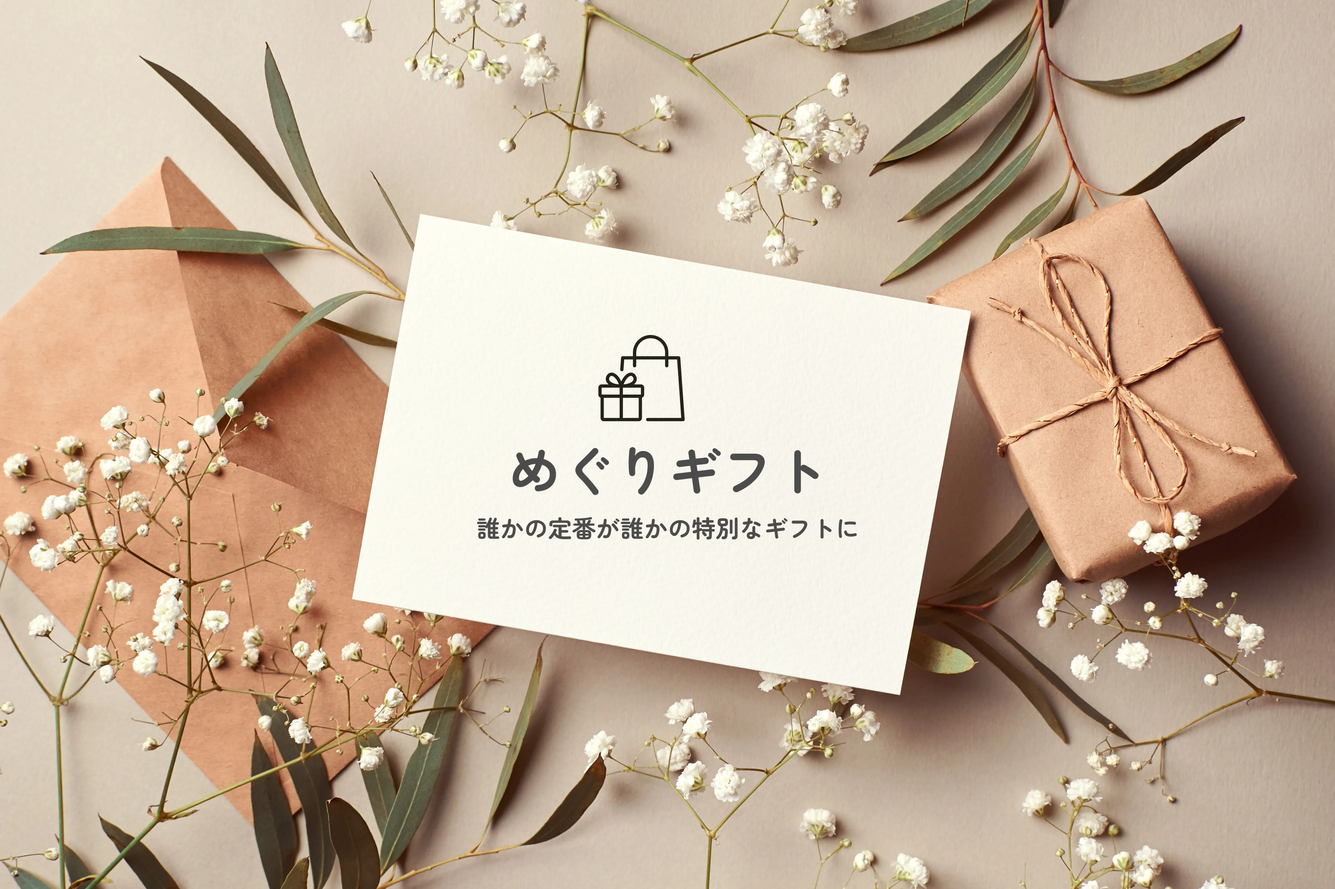
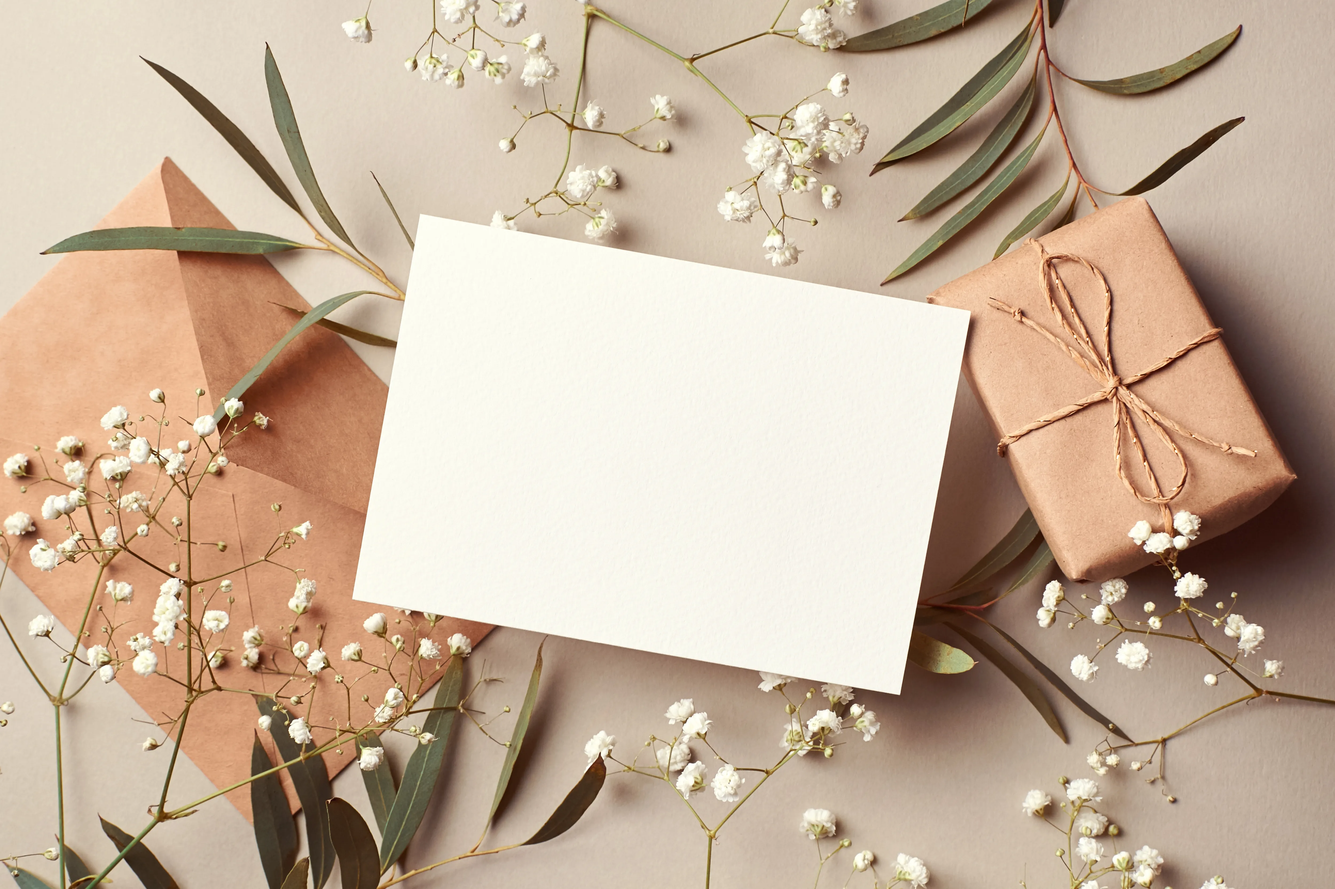
fix:画像生成部分を修正

Changed region(s): [[0.3432, 0.3744, 0.624, 0.6241]]

diff --git a/app/controllers/concerns/ogp_creator.rb b/app/controllers/concerns/ogp_creator.rb
@@ -133,29 +133,66 @@
 # end
 class OgpCreator
   require "mini_magick"
+
   BASE_IMAGE_PATH = Rails.root.join("app", "assets", "images", "ogp.webp").to_s
   GRAVITY = "center"
-  TEXT_POSITION = "0,0"
   FONT = Rails.root.join("app", "assets", "fonts", "UtsukushiFONT.otf").to_s
-  FONT_SIZE = 65
-  INDENTION_COUNT = 16
-  ROW_LIMIT = 8
+  TITLE_FONT_SIZE = 160
+  SUBTITLE_FONT_SIZE =  210
+  SUBTITLE_CHARS_PER_LINE = 7
+  SUBTITLE_ROW_LIMIT = 4
+  PRIMARY_FILL_COLOR = "#F6B352"
+  SECONDARY_FILL_COLOR = "#ffbdd3"
+  STROKE_COLOR = "#ffffff"
+  PRIMARY_DRAW_OFFSET = "0,-500"
+  SECONDARY_DRAW_OFFSET = "0,40"
 
   def self.build(text)
-    text = prepare_text(text)
+    prepared_text = prepare_text(text)
     image = MiniMagick::Image.open(BASE_IMAGE_PATH)
-    image.combine_options do |config|
-      config.font FONT
-      config.fill "red"
-      config.gravity GRAVITY
-      config.pointsize FONT_SIZE
-      config.draw "text #{TEXT_POSITION} '#{text}'"
-    end
+    draw_primary_title(image)
+    draw_secondary_title(image, prepared_text)
+    image.format "webp"
     image
   end
 
   private
+
+  def self.draw_primary_title(image)
+    image.combine_options do |config|
+      config.font FONT
+      config.fill PRIMARY_FILL_COLOR
+      config.stroke STROKE_COLOR
+      config.strokewidth 4
+      config.gravity GRAVITY
+      config.pointsize TITLE_FONT_SIZE
+      config.kerning 6
+      config.interline_spacing -8
+      config.draw "text #{PRIMARY_DRAW_OFFSET} 'おすすめギフト'"
+    end
+  end
+
+  def self.draw_secondary_title(image, text)
+    image.combine_options do |config|
+      config.font FONT
+      config.fill SECONDARY_FILL_COLOR
+      config.stroke "none"
+      config.gravity GRAVITY
+      config.pointsize SUBTITLE_FONT_SIZE
+      config.kerning 4
+      config.interline_spacing -6
+      config.draw "text #{SECONDARY_DRAW_OFFSET} '#{text}'"
+    end
+  end
+
   def self.prepare_text(text)
-    text.to_s.scan(/.{1,#{INDENTION_COUNT}}/)[0...ROW_LIMIT].join("\n")
+    sanitized = text.to_s.strip
+    sanitized = "ギフト記録" if sanitized.blank?
+
+    sanitized.each_char
+             .each_slice(SUBTITLE_CHARS_PER_LINE)
+             .map { |chars| chars.join }
+             .first(SUBTITLE_ROW_LIMIT)
+             .join("\n")
   end
 end

diff --git a/app/controllers/gift_records_controller.rb b/app/controllers/gift_records_controller.rb
@@ -645,35 +645,12 @@ def gift_record_image_url(gift_record)
   Rails.logger.info "=== gift_record_image_url Debug ==="
   Rails.logger.info "gift_record: #{gift_record.inspect}"
 
-  # nilチェック
-  if gift_record.nil?
-    Rails.logger.info "gift_record is nil, using default image"
-    return view_context.image_url("default_gift.webp")
-  end
+  return view_context.image_url("default_gift.webp") if gift_record.nil?
 
-  # 画像が添付されているかチェック
-  if gift_record.images.attached? && gift_record.images.any?
-    Rails.logger.info "Images attached: #{gift_record.images.count} images"
-
-    begin
-      first_image = gift_record.images.first
-      Rails.logger.info "First image blob: #{first_image.blob.filename}"
-
-      # url_forを使用（最も安全）
-      url = url_for(first_image)
-      Rails.logger.info "Generated URL: #{url}"
-
-      return url
-    rescue => e
-      Rails.logger.error "Error generating image URL: #{e.class} - #{e.message}"
-      Rails.logger.error e.backtrace.first(3).join("\n")
-    end
-  else
-    Rails.logger.info "No images attached or images array is empty"
-  end
-
-  # フォールバック
-  Rails.logger.info "Using default image"
+  gift_record.ogp_image_url(request)
+rescue => e
+  Rails.logger.error "Error generating gift record image URL: #{e.class} - #{e.message}"
+  Rails.logger.error e.backtrace.first(3).join("\n")
   view_context.image_url("default_gift.webp")
 end
 
@@ -682,7 +659,7 @@ def generate_ogp_image_url(gift_record)
   return default_ogp_image_url unless gift_record&.item_name.present?
 
   begin
-    "#{request.base_url}/images/ogp.png?text=#{CGI.escape(gift_record.item_name)}"
+    "#{request.base_url}/images/ogp.webp?text=#{CGI.escape(gift_record.item_name)}"
   rescue => e
     Rails.logger.error "OGP URL生成エラー: #{e.message}"
     default_ogp_image_url
@@ -715,7 +692,7 @@ end
   end
 
   def default_ogp_image_url
-    url = "#{request.base_url}#{image_path('ogp.png')}"
+    url = "#{request.base_url}#{image_path('ogp.webp')}"
     Rails.env.production? ? url.sub(%r{^http://}, "https://") : url
   end
 

diff --git a/app/models/gift_record.rb b/app/models/gift_record.rb
@@ -1,4 +1,5 @@
 class GiftRecord < ApplicationRecord
+  require "tempfile"
   # リレーション
   belongs_to :user
   belongs_to :event
@@ -58,8 +59,8 @@ class GiftRecord < ApplicationRecord
     # 実体のある画像のみを判定対象にする（削除直後の残骸などを除外）
     when valid_image_attachments.any?
       :use_first_image_resized
-    # when item_name.present?
-    #   :generate_dynamic_text_image
+    when item_name.present?
+      :generate_dynamic_text_image
     else
       :use_default_image
     end
@@ -200,7 +201,7 @@ class GiftRecord < ApplicationRecord
   helpers = ActionController::Base.helpers
 
   # 完全なURLを生成（ドメイン + アセットハッシュ込み）
-  url = helpers.image_url("ogp.png", host: request.base_url)
+  url = helpers.image_url("ogp.webp", host: request.base_url)
 
   # 本番環境でのHTTPS強制
   url = url.sub(%r{^http://}, "https://") if Rails.env.production?
@@ -210,7 +211,7 @@ class GiftRecord < ApplicationRecord
 rescue => e
   Rails.logger.error "Error getting default image: #{e.message}"
   # フォールバックもimage_urlを使用
-  fallback_url = helpers.image_url("ogp.png", host: request.base_url)
+  fallback_url = helpers.image_url("ogp.webp", host: request.base_url)
   fallback_url.sub(%r{^http://}, "https://") if Rails.env.production?
   fallback_url
 end
@@ -226,13 +227,19 @@ end
 
     text = item_name.presence || "ギフト記録"
     image = OgpCreator.build(text)
-    io = StringIO.new(image.to_blob)
+    tempfile = Tempfile.new(["ogp_#{id}", ".webp"])
+    tempfile.binmode
+    tempfile.write(image.to_blob)
+    tempfile.rewind
+
     ogp_image.attach(
-      io: io,
+      io: tempfile,
       filename: "ogp_#{id}.webp",
       content_type: "image/webp"
     )
+
     image.destroy!
+    tempfile.close!
   rescue => e
     Rails.logger.error "OGP生成/添付エラー: #{e.message}"
   end

diff --git a/app/controllers/images_controller.rb b/app/controllers/images_controller.rb
@@ -60,7 +60,7 @@ class ImagesController < ApplicationController
       response.headers["Cache-Control"] = "public, max-age=3600"
       response.headers["ETag"] = etag
 
-      send_data image_data, type: "image/png", disposition: "inline"
+      send_data image_data, type: "image/webp", disposition: "inline"
     else
       send_default_ogp_image
     end
@@ -78,13 +78,13 @@ class ImagesController < ApplicationController
 
   def send_default_ogp_image
     # Prefer explicit default, fallback to base OGP image
-    default_path = Rails.root.join("app/assets/images/default_ogp.png")
-    fallback_path = Rails.root.join("app/assets/images/ogp.png")
+    default_path = Rails.root.join("app/assets/images/default_ogp.webp")
+    fallback_path = Rails.root.join("app/assets/images/ogp.webp")
 
     if File.exist?(default_path)
-      send_file default_path, type: "image/png", disposition: "inline"
+      send_file default_path, type: "image/webp", disposition: "inline"
     elsif File.exist?(fallback_path)
-      send_file fallback_path, type: "image/png", disposition: "inline"
+      send_file fallback_path, type: "image/webp", disposition: "inline"
     else
       head :not_found
     end

diff --git a/app/services/ogp_url_service.rb b/app/services/ogp_url_service.rb
@@ -5,7 +5,7 @@ class OgpUrlService
     begin
       helpers = ActionController::Base.helpers
 
-      url = helpers.image_url("ogp.png", host: request.base_url)
+      url = helpers.image_url("ogp.webp", host: request.base_url)
 
       url = url.sub(%r{^http://}, "https://") if Rails.env.production?
 
@@ -15,7 +15,7 @@ class OgpUrlService
       Rails.logger.error "OgpUrlService error: #{e.message}"
       Rails.logger.error e.backtrace.join("\n")
 
-      fallback_url = "#{request.base_url}/assets/ogp.png"
+      fallback_url = "#{request.base_url}/assets/ogp.webp"
       Rails.logger.info "OgpUrlService fallback: #{fallback_url}"
       fallback_url
     end

diff --git a/config/routes.rb b/config/routes.rb
@@ -1,7 +1,7 @@
 Rails.application.routes.draw do
   root "static_pages#top"
 
-  get "images/ogp.png", to: "images#ogp", as: "images_ogp"
+  get "images/ogp.webp", to: "images#ogp", as: "images_ogp"
 
   devise_for :users, controllers: {
     omniauth_callbacks: "omniauth_callbacks",
